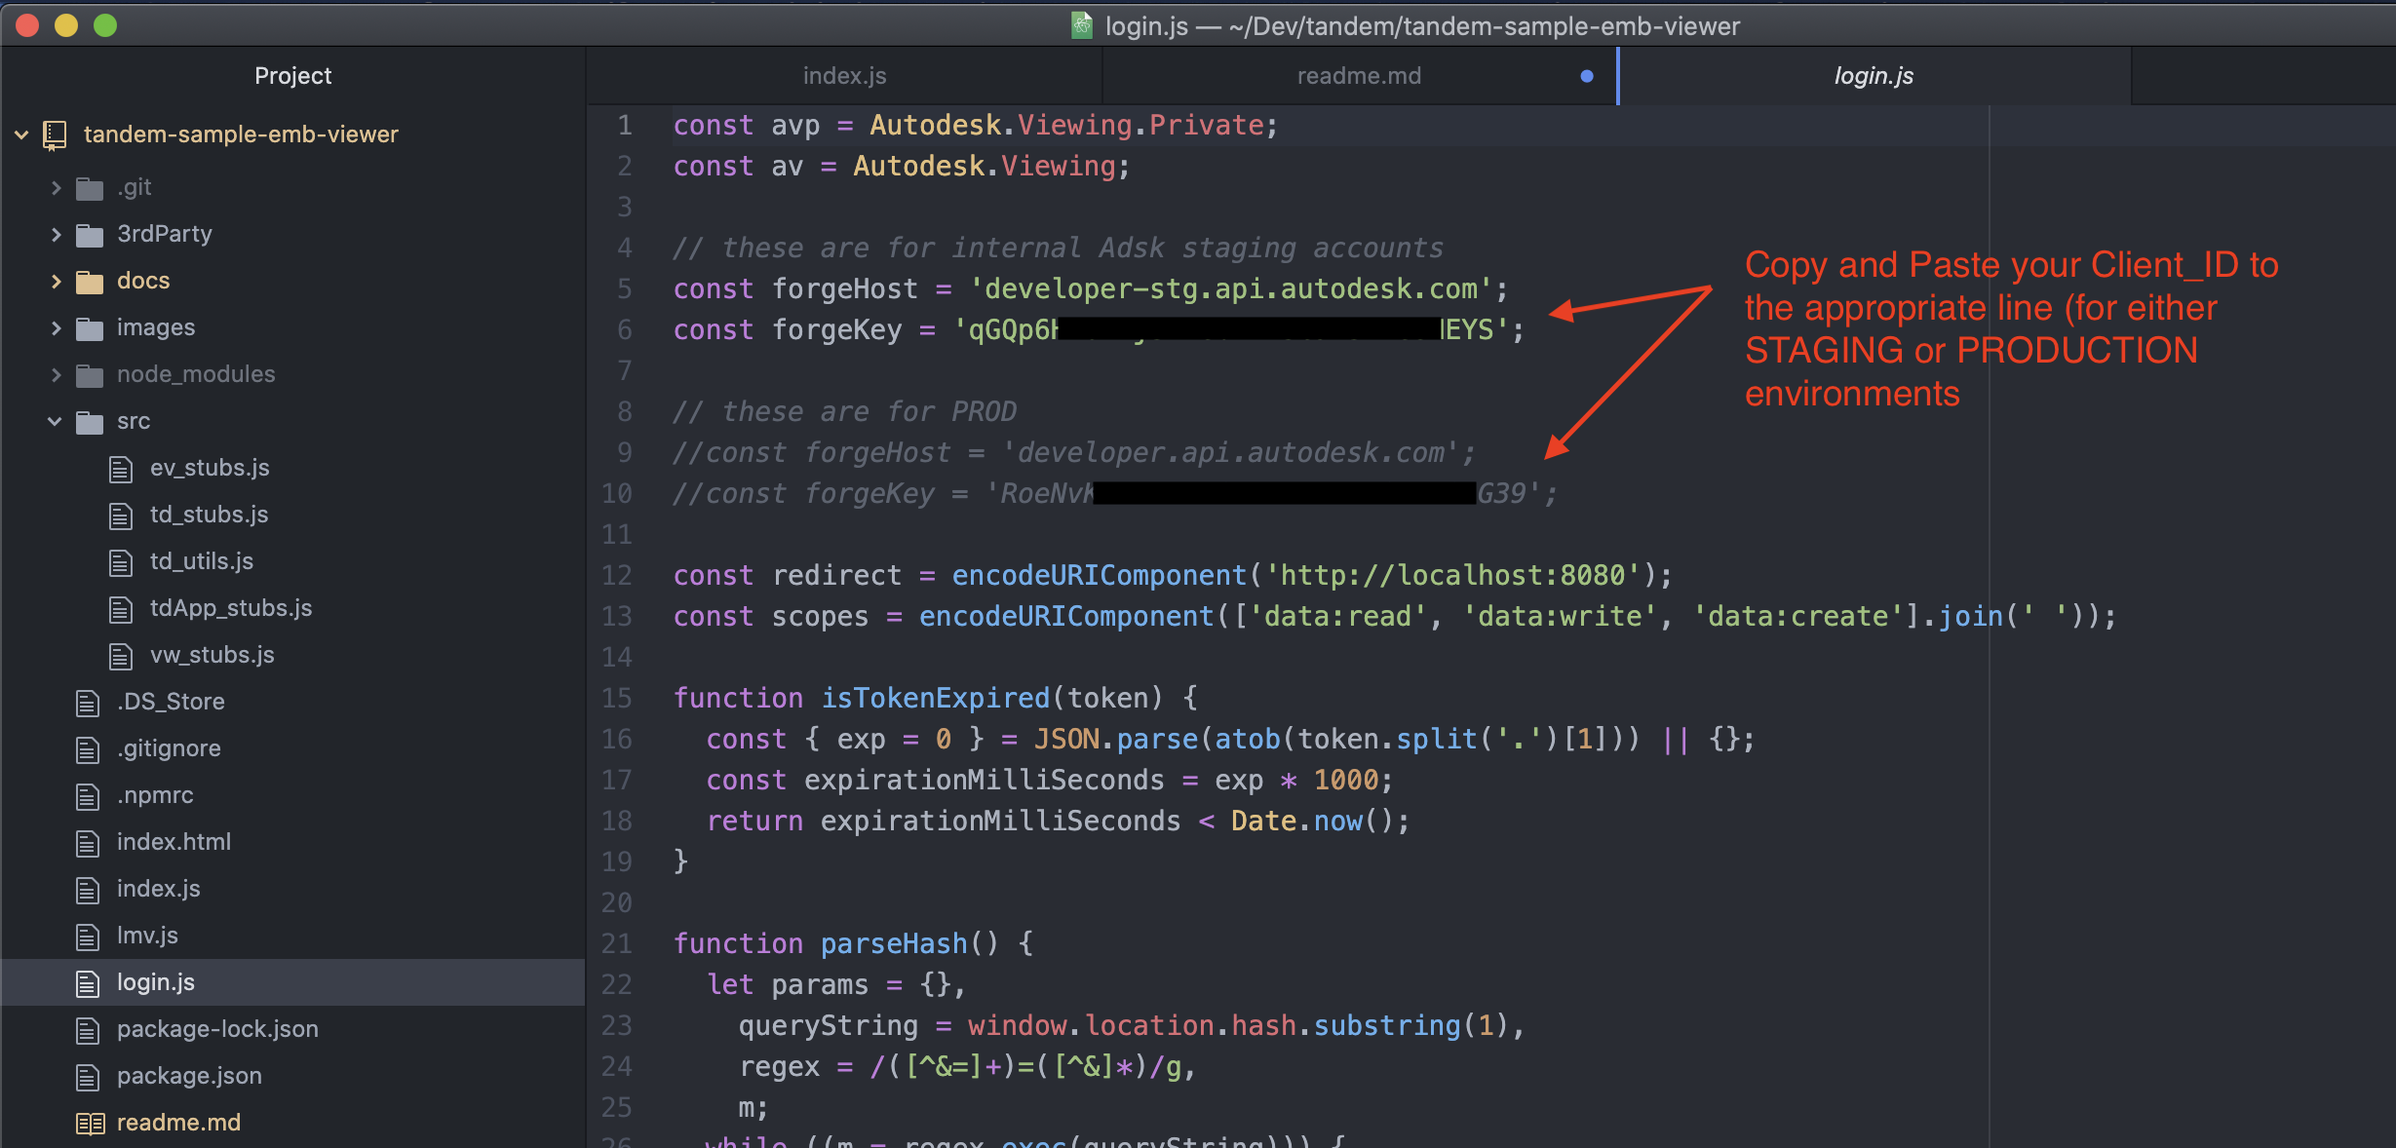
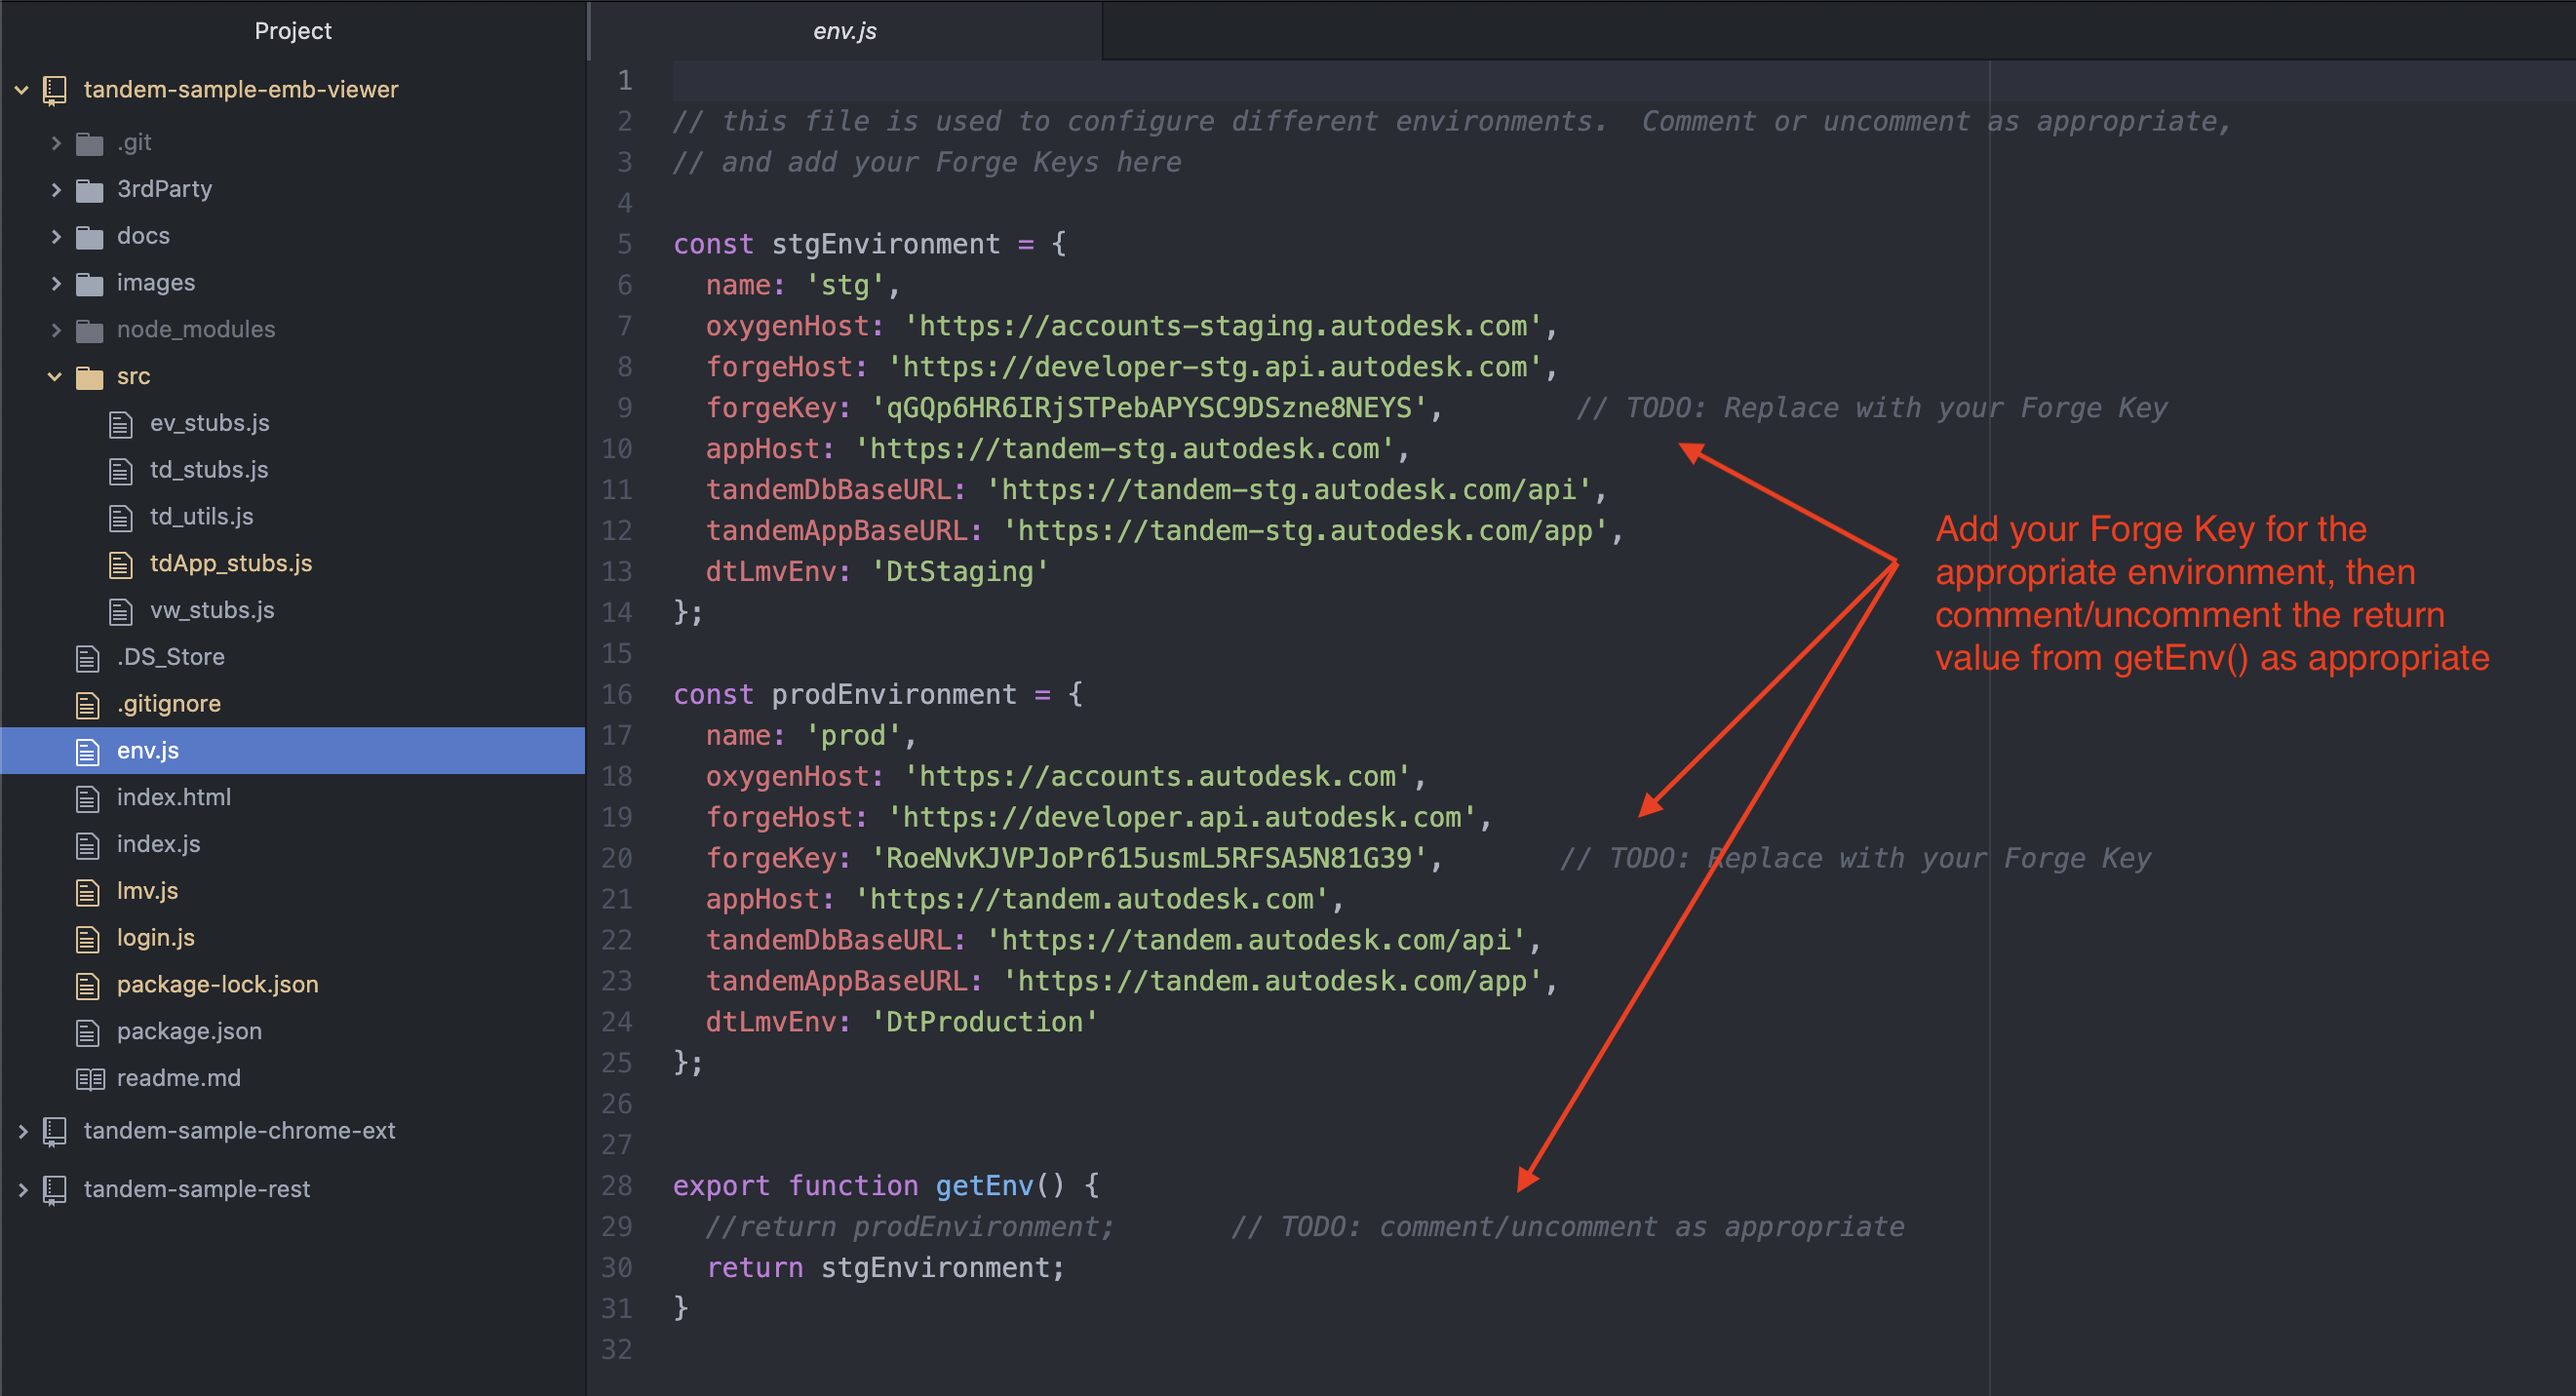
Adding config for PROD/STG

diff --git a/src/tdApp_stubs.js b/src/tdApp_stubs.js
@@ -1,10 +1,9 @@
+import { getEnv } from '../env.js';
 
[1 lines of base64/hex data omitted]
-const tdApp_baseURL = "https://tandem-stg.autodesk.com/app/";
-//const tdApp_baseURL = "https://tandem.autodesk.com/app/";
+const tdApp_baseURL = getEnv().tandemAppBaseURL;  // get PROD/STG from config file
 
 var myHeaders = new Headers();
-myHeaders.append("Authorization", "Bearer " + window.sessionStorage.token);
+myHeaders.append("Authorization", "Bearer " + window.sessionStorage.token); // use our login to the app
 
 var requestOptions = {
   method: 'GET',
@@ -28,7 +27,7 @@ export async function getSavedViews() {
 
   const facilityURN = DT_APP.currentFacility.twinId;
 
-  const requestPath = tdApp_baseURL + `views/${facilityURN}`;
+  const requestPath = tdApp_baseURL + `/views/${facilityURN}`;
   console.log(requestPath);
 
   await fetch(requestPath, requestOptions)
@@ -49,7 +48,7 @@ export async function getClassifications() {
 
   const groupId = DT_APP.currentFacility.settings.accountGroup;
 
-  const requestPath = tdApp_baseURL + `groups/${groupId}/classifications`;
+  const requestPath = tdApp_baseURL + `/groups/${groupId}/classifications`;
   console.log(requestPath);
 
   await fetch(requestPath, requestOptions)
@@ -70,7 +69,7 @@ export async function getFacilityTemplates() {
 
   const groupId = DT_APP.currentFacility.settings.accountGroup;
 
-  const requestPath = tdApp_baseURL + `groups/${groupId}/facility-templates`;
+  const requestPath = tdApp_baseURL + `/groups/${groupId}/facility-templates`;
   console.log(requestPath);
 
   await fetch(requestPath, requestOptions)
@@ -92,7 +91,7 @@ export async function getFacilityTemplateByUUID() {
   const groupId = DT_APP.currentFacility.settings.accountGroup;
   const templateUUID = DT_APP.currentFacility.settings.template.data.uuid;
 
-  const requestPath = tdApp_baseURL + `groups/${groupId}/facility-templates/${templateUUID}`;
+  const requestPath = tdApp_baseURL + `/groups/${groupId}/facility-templates/${templateUUID}`;
   console.log(requestPath);
 
   await fetch(requestPath, requestOptions)
@@ -113,7 +112,7 @@ export async function getParameterSets() {
 
   const groupId = DT_APP.currentFacility.settings.accountGroup;
 
-  const requestPath = tdApp_baseURL + `groups/${groupId}/psets`;
+  const requestPath = tdApp_baseURL + `/groups/${groupId}/psets`;
   console.log(requestPath);
 
   await fetch(requestPath, requestOptions)
@@ -135,7 +134,7 @@ export async function getParameterSetByUUID() {
   const groupId = DT_APP.currentFacility.settings.accountGroup;
   const psetUUID = "U2qVqS3RSO-GYITwQfzSGg";  // NOTE: this is hardwired!!!
 
-  const requestPath = tdApp_baseURL + `groups/${groupId}/psets/${psetUUID}`;
+  const requestPath = tdApp_baseURL + `/groups/${groupId}/psets/${psetUUID}`;
   console.log(requestPath);
 
   await fetch(requestPath, requestOptions)

diff --git a/login.js b/login.js
@@ -1,13 +1,12 @@
+
+import { getEnv } from './env.js';
+
 const avp = Autodesk.Viewing.Private;
 const av = Autodesk.Viewing;
 
-// these are for internal Adsk staging accounts
-const forgeHost = 'developer-stg.api.autodesk.com';
-const forgeKey = 'qGQp6HR6IRjSTPebAPYSC9DSzne8NEYS';
-
-// these are for PROD
-//const forgeHost = 'developer.api.autodesk.com';
-//const forgeKey = 'RoeNvKJVPJoPr615usmL5RFSA5N81G39';
+  // get our URL and Keys from the environment.js config file
+const forgeHost = getEnv().forgeHost;
+const forgeKey = getEnv().forgeKey;
 
 const redirect = encodeURIComponent('http://localhost:8080');
 const scopes = encodeURIComponent(['data:read', 'data:write', 'data:create'].join(' '));
@@ -32,7 +31,7 @@ function parseHash() {
 export function logMeIn() {
     const token = window.sessionStorage.token || parseHash().access_token;
 
-    const loginUrl = `https://${forgeHost}/authentication/v1/authorize?response_type=token&client_id=${forgeKey}&redirect_uri=${redirect}&scope=${scopes}`;
+    const loginUrl = `${forgeHost}/authentication/v1/authorize?response_type=token&client_id=${forgeKey}&redirect_uri=${redirect}&scope=${scopes}`;
 
     if (!token || isTokenExpired(token)) {
       window.location.href = loginUrl;

diff --git a/env.js b/env.js
@@ -1,0 +1,31 @@
+
+// this file is used to configure different environments.  Comment or uncomment as appropriate,
+// and add your Forge Keys here
+
+const stgEnvironment = {
+	name: 'stg',
+	oxygenHost: 'https://accounts-staging.autodesk.com',
+	forgeHost: 'https://developer-stg.api.autodesk.com',
+	forgeKey: 'qGQp6HR6IRjSTPebAPYSC9DSzne8NEYS',        // TODO: Replace with your Forge Key
+	appHost: 'https://tandem-stg.autodesk.com',
+  tandemDbBaseURL: 'https://tandem-stg.autodesk.com/api',
+  tandemAppBaseURL: 'https://tandem-stg.autodesk.com/app',
+	dtLmvEnv: 'DtStaging'
+};
+
+const prodEnvironment = {
+	name: 'prod',
+	oxygenHost: 'https://accounts.autodesk.com',
+	forgeHost: 'https://developer.api.autodesk.com',
+	forgeKey: 'RoeNvKJVPJoPr615usmL5RFSA5N81G39',       // TODO: Replace with your Forge Key
+	appHost: 'https://tandem.autodesk.com',
+	tandemDbBaseURL: 'https://tandem.autodesk.com/api',
+  tandemAppBaseURL: 'https://tandem.autodesk.com/app',
+	dtLmvEnv: 'DtProduction'
+};
+
+
+export function getEnv() {
+  //return prodEnvironment;       // TODO: comment/uncomment as appropriate
+  return stgEnvironment;
+}

diff --git a/lmv.js b/lmv.js
@@ -1,11 +1,13 @@
+
+import { getEnv } from './env.js';    // get our value for STG/PROD from config file
+
 const av = Autodesk.Viewing;
 const avp = av.Private;
 
 export function initLMV() {
     return new Promise(resolve=>{
     Autodesk.Viewing.Initializer({
-        env: 'DtStaging',
-        //env: 'DtProduction',
+        env: getEnv().dtLmvEnv,
         api: 'dt',
         useCookie: avp.useCookie,
         useCredentials: true,

diff --git a/readme.md b/readme.md
@@ -26,17 +26,14 @@ It is designed to bring in as few dependencies as possible.  It is plain Javascr
 ## Setup and Configuration
 
 1. After cloning this repo, run `npm install`.
-2. Add your application Client_ID to the `code`.  Find the appropriate lines in the file `login.js` as shown in the image below.
+2. Add your application Client_ID to the code.  Find the appropriate lines in the file `env.js` as shown in the image below.
 
 ![Tandem TestBed App 020](./docs/Readme_img_020.png)
 
-3. Make sure to use the appropriate environment consistently.  Depending on whether you are using STAGING or PRODUCTION (as shown in the image above), set the Viewer to use the same environment.
+3. Make sure to use the appropriate environment consistently.  Depending on whether you are using STAGING or PRODUCTION (as shown in the image above), set the Viewer to load into the HTML page using the same environment.
 
 ![Tandem TestBed App 021](./docs/Readme_img_021.png)
-![Tandem TestBed App 022](./docs/Readme_img_022.png)
-![Tandem TestBed App 023](./docs/Readme_img_023.png)
 
-*NOTE: This process will soon be updated to use a configuration file so it isn't so difficult to manually change all these lines of code.  Sorry!*
 
 
 ## Start App
